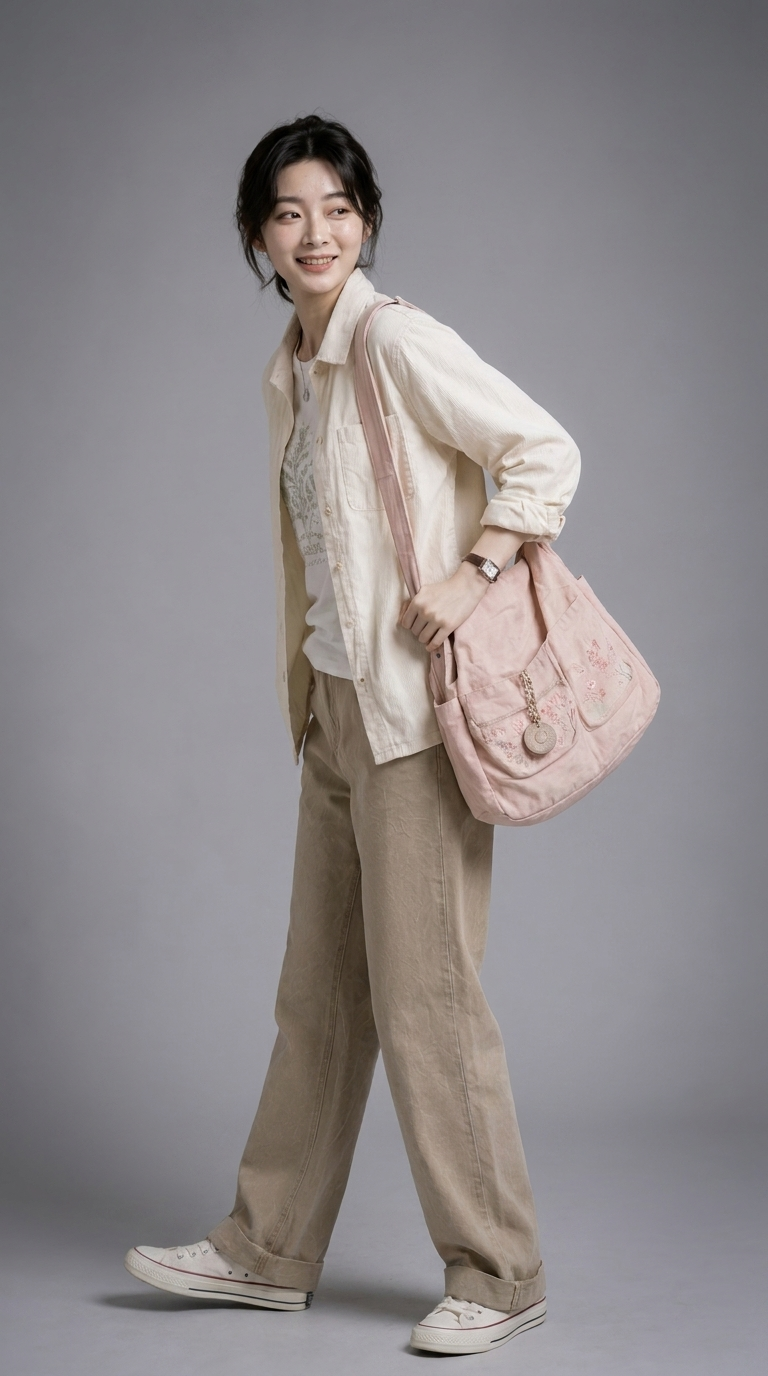
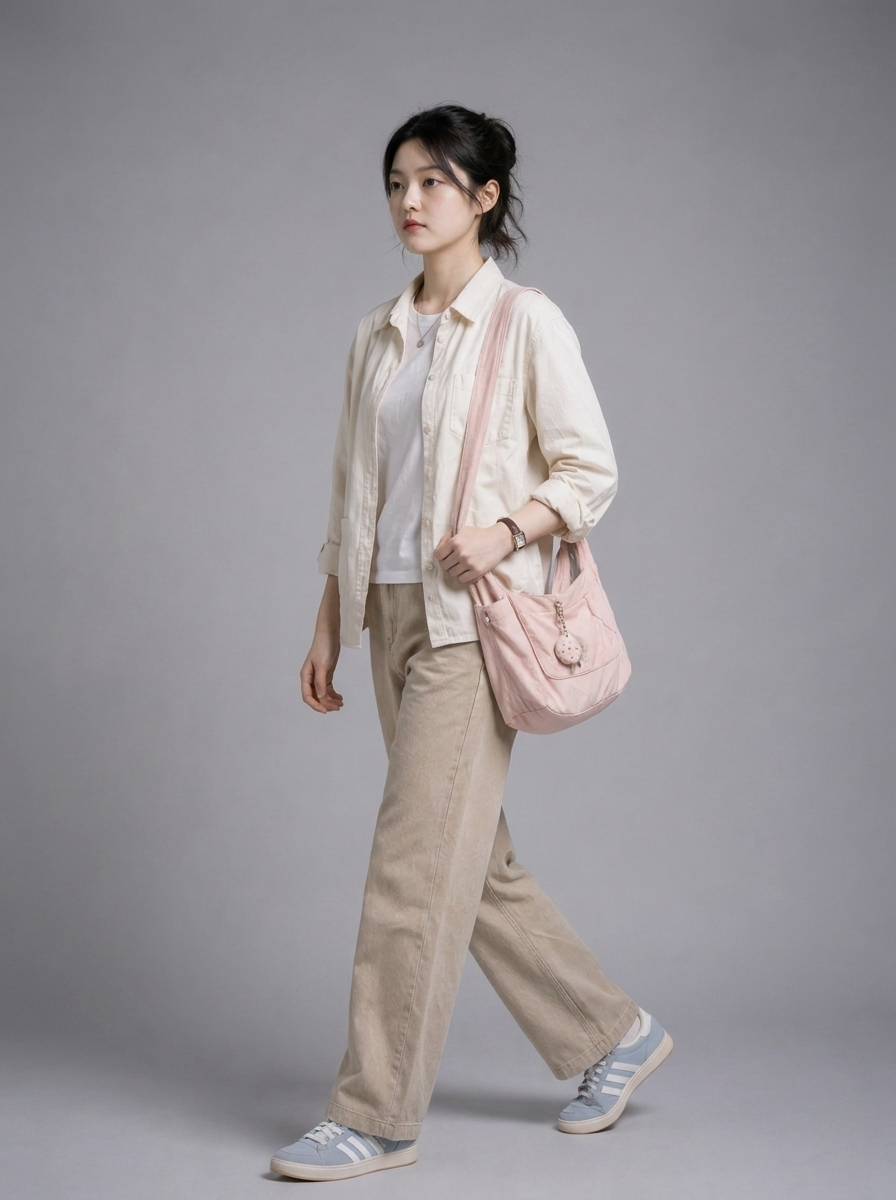
替换程雨馨全部资产：造型5+面部7+表情12+一致性4=28张（三主角全员28张完整度）

diff --git a/index.html b/index.html
@@ -124,7 +124,10 @@ body{background:#0a0a14;color:#ede4d4;font-family:"PingFang SC","Noto Serif SC",
     <a href="#sec-chenyuchen-face" data-nav="chenyuchen-face" class="nav-sub">📐 面部资产</a>
     <a href="#sec-chenyuchen-expr" data-nav="chenyuchen-expr" class="nav-sub">😶 表情资产</a>
     <a href="#sec-chenyuchen-consistency" data-nav="chenyuchen-consistency" class="nav-sub">🔗 一致性</a>
-    <a href="#sec-chengyuxin" data-nav="chengyuxin">🌸 程雨馨 · 感知者</a>
+    <a href="#sec-chengyuxin" data-nav="chengyuxin">🌸 程雨馨 · 造型</a>
+    <a href="#sec-chengyuxin-face" data-nav="chengyuxin-face" class="nav-sub">📐 面部资产</a>
+    <a href="#sec-chengyuxin-expr" data-nav="chengyuxin-expr" class="nav-sub">😶 表情资产</a>
+    <a href="#sec-chengyuxin-consistency" data-nav="chengyuxin-consistency" class="nav-sub">🔗 一致性</a>
     <div class="nav-major">核心配角</div>
     <a href="#sec-hongjie" data-nav="hongjie">🐱 虹姐 · 香堂主</a>
   </div>
@@ -504,7 +507,7 @@ body{background:#0a0a14;color:#ede4d4;font-family:"PingFang SC","Noto Serif SC",
   <div class="card-grid" id="grid-chengyuxin">
     <div class="card" onclick="openLightbox(this.querySelector('img'),'chengyuxin')">
       <img src="程雨馨_正面全身.jpg" alt="程雨馨 正面全身" loading="lazy">
-      <div class="card-info"><div class="card-name">正面全身</div><div class="card-desc">标准正面站姿 · 浅色外套+针织+简洁裤装</div></div>
+      <div class="card-info"><div class="card-name">正面全身</div><div class="card-desc">标准站姿 · 浅色外套+针织+简洁裤装</div></div>
     </div>
     <div class="card" onclick="openLightbox(this.querySelector('img'),'chengyuxin')">
       <img src="程雨馨_背面全身.jpg" alt="程雨馨 背面全身" loading="lazy">
@@ -520,7 +523,117 @@ body{background:#0a0a14;color:#ede4d4;font-family:"PingFang SC","Noto Serif SC",
     </div>
     <div class="card" onclick="openLightbox(this.querySelector('img'),'chengyuxin')">
       <img src="程雨馨_动态站姿.jpg" alt="程雨馨 动态站姿" loading="lazy">
-      <div class="card-info"><div class="card-name">动态站姿</div><div class="card-desc">调查状态 · 气味标签+样本袋+记录本</div></div>
+      <div class="card-info"><div class="card-name">动态站姿</div><div class="card-desc">自然行动 · 植物感知者的灵敏感</div></div>
+    </div>
+  </div>
+
+  <!-- 程雨馨 · 面部资产 -->
+  <div id="sec-chengyuxin-face"></div>
+  <div class="section-title"><div class="line"></div><span class="label">📐 程雨馨 · 面部资产（7张）</span><div class="line"></div></div>
+  <div class="card-grid" id="grid-chengyuxin-face">
+    <div class="card" onclick="openLightbox(this.querySelector('img'),'chengyuxin-face')">
+      <img src="程雨馨_面部_正面正视.jpg" alt="正面正视" loading="lazy">
+      <div class="card-info"><div class="card-name">正面正视</div><div class="card-desc">标准面部 · 自然清透·安静敏感</div></div>
+    </div>
+    <div class="card" onclick="openLightbox(this.querySelector('img'),'chengyuxin-face')">
+      <img src="程雨馨_面部_左侧45度.jpg" alt="左侧45度" loading="lazy">
+      <div class="card-info"><div class="card-name">左侧45°</div><div class="card-desc">面部角度参考</div></div>
+    </div>
+    <div class="card" onclick="openLightbox(this.querySelector('img'),'chengyuxin-face')">
+      <img src="程雨馨_面部_右侧45度.jpg" alt="右侧45度" loading="lazy">
+      <div class="card-info"><div class="card-name">右侧45°</div><div class="card-desc">面部角度参考</div></div>
+    </div>
+    <div class="card" onclick="openLightbox(this.querySelector('img'),'chengyuxin-face')">
+      <img src="程雨馨_面部_左侧正侧.jpg" alt="左侧正侧" loading="lazy">
+      <div class="card-info"><div class="card-name">左侧正侧</div><div class="card-desc">完整侧脸轮廓</div></div>
+    </div>
+    <div class="card" onclick="openLightbox(this.querySelector('img'),'chengyuxin-face')">
+      <img src="程雨馨_面部_右侧正侧.jpg" alt="右侧正侧" loading="lazy">
+      <div class="card-info"><div class="card-name">右侧正侧</div><div class="card-desc">完整侧脸轮廓</div></div>
+    </div>
+    <div class="card" onclick="openLightbox(this.querySelector('img'),'chengyuxin-face')">
+      <img src="程雨馨_面部_仰视角度.jpg" alt="仰视角度" loading="lazy">
+      <div class="card-info"><div class="card-name">仰视角度</div><div class="card-desc">低角度面部参考</div></div>
+    </div>
+    <div class="card" onclick="openLightbox(this.querySelector('img'),'chengyuxin-face')">
+      <img src="程雨馨_面部_俯视角度.jpg" alt="俯视角度" loading="lazy">
+      <div class="card-info"><div class="card-name">俯视角度</div><div class="card-desc">高角度面部参考</div></div>
+    </div>
+  </div>
+
+  <!-- 程雨馨 · 表情资产 -->
+  <div id="sec-chengyuxin-expr"></div>
+  <div class="section-title"><div class="line"></div><span class="label">😶 程雨馨 · 表情资产（12张）</span><div class="line"></div></div>
+  <div class="card-grid" id="grid-chengyuxin-expr">
+    <div class="card" onclick="openLightbox(this.querySelector('img'),'chengyuxin-expr')">
+      <img src="程雨馨_表情_默认状态.jpg" alt="默认状态" loading="lazy">
+      <div class="card-info"><div class="card-name">默认状态</div><div class="card-desc">基准表情 · 安静敏感的观察者</div></div>
+    </div>
+    <div class="card" onclick="openLightbox(this.querySelector('img'),'chengyuxin-expr')">
+      <img src="程雨馨_表情_轻微微笑.jpg" alt="轻微微笑" loading="lazy">
+      <div class="card-info"><div class="card-name">轻微微笑</div><div class="card-desc">发现异常植物线索的喜悦</div></div>
+    </div>
+    <div class="card" onclick="openLightbox(this.querySelector('img'),'chengyuxin-expr')">
+      <img src="程雨馨_表情_释然.jpg" alt="释然" loading="lazy">
+      <div class="card-info"><div class="card-name">释然</div><div class="card-desc">接受自己的能力后放松</div></div>
+    </div>
+    <div class="card" onclick="openLightbox(this.querySelector('img'),'chengyuxin-expr')">
+      <img src="程雨馨_表情_思考.jpg" alt="思考" loading="lazy">
+      <div class="card-info"><div class="card-name">思考</div><div class="card-desc">分析气味标签时的专注</div></div>
+    </div>
+    <div class="card" onclick="openLightbox(this.querySelector('img'),'chengyuxin-expr')">
+      <img src="程雨馨_表情_疑惑.jpg" alt="疑惑" loading="lazy">
+      <div class="card-info"><div class="card-name">疑惑</div><div class="card-desc">异常气味来源不明</div></div>
+    </div>
+    <div class="card" onclick="openLightbox(this.querySelector('img'),'chengyuxin-expr')">
+      <img src="程雨馨_表情_犹豫.jpg" alt="犹豫" loading="lazy">
+      <div class="card-info"><div class="card-name">犹豫</div><div class="card-desc">是否告诉团队自己的感知</div></div>
+    </div>
+    <div class="card" onclick="openLightbox(this.querySelector('img'),'chengyuxin-expr')">
+      <img src="程雨馨_表情_惊讶.jpg" alt="惊讶" loading="lazy">
+      <div class="card-info"><div class="card-name">惊讶</div><div class="card-desc">第一次看见渊木本体</div></div>
+    </div>
+    <div class="card" onclick="openLightbox(this.querySelector('img'),'chengyuxin-expr')">
+      <img src="程雨馨_表情_恐惧.jpg" alt="恐惧" loading="lazy">
+      <div class="card-info"><div class="card-name">恐惧</div><div class="card-desc">感知被渊木反噬的瞬间</div></div>
+    </div>
+    <div class="card" onclick="openLightbox(this.querySelector('img'),'chengyuxin-expr')">
+      <img src="程雨馨_表情_悲伤.jpg" alt="悲伤" loading="lazy">
+      <div class="card-info"><div class="card-name">悲伤</div><div class="card-desc">无法拯救黄雅悦的自责</div></div>
+    </div>
+    <div class="card" onclick="openLightbox(this.querySelector('img'),'chengyuxin-expr')">
+      <img src="程雨馨_表情_愤怒.jpg" alt="愤怒" loading="lazy">
+      <div class="card-info"><div class="card-name">愤怒</div><div class="card-desc">对成华集团隐瞒真相的愤怒</div></div>
+    </div>
+    <div class="card" onclick="openLightbox(this.querySelector('img'),'chengyuxin-expr')">
+      <img src="程雨馨_表情_压力状态.jpg" alt="压力状态" loading="lazy">
+      <div class="card-info"><div class="card-name">压力状态</div><div class="card-desc">异常嗅觉过载时的疲惫</div></div>
+    </div>
+    <div class="card" onclick="openLightbox(this.querySelector('img'),'chengyuxin-expr')">
+      <img src="程雨馨_表情_角色招牌.jpg" alt="角色招牌" loading="lazy">
+      <div class="card-info"><div class="card-name">角色招牌</div><div class="card-desc">清透自然的最具辨识度表情</div></div>
+    </div>
+  </div>
+
+  <!-- 程雨馨 · 一致性资产 -->
+  <div id="sec-chengyuxin-consistency"></div>
+  <div class="section-title"><div class="line"></div><span class="label">🔗 程雨馨 · 一致性资产（4张）</span><div class="line"></div></div>
+  <div class="card-grid" id="grid-chengyuxin-consistency">
+    <div class="card" onclick="openLightbox(this.querySelector('img'),'chengyuxin-consistency')">
+      <img src="程雨馨_一致性_剪影识别系统.jpg" alt="剪影识别系统" loading="lazy">
+      <div class="card-info"><div class="card-name">剪影识别系统</div><div class="card-desc">多角度剪影轮廓 · 轻盈体态辨识度</div></div>
+    </div>
+    <div class="card" onclick="openLightbox(this.querySelector('img'),'chengyuxin-consistency')">
+      <img src="程雨馨_一致性_服装结构与材质板.jpg" alt="服装结构与材质板" loading="lazy">
+      <div class="card-info"><div class="card-name">服装结构与材质板</div><div class="card-desc">浅色外套·针织·自然面料</div></div>
+    </div>
+    <div class="card" onclick="openLightbox(this.querySelector('img'),'chengyuxin-consistency')">
+      <img src="程雨馨_一致性_脸部_眼镜_发型细节.jpg" alt="脸部眼镜发型细节" loading="lazy">
+      <div class="card-info"><div class="card-name">脸部+发型细节</div><div class="card-desc">清透五官·自然发型·锁脸参考</div></div>
+    </div>
+    <div class="card" onclick="openLightbox(this.querySelector('img'),'chengyuxin-consistency')">
+      <img src="程雨馨_一致性_随身物资产.jpg" alt="随身物资产" loading="lazy">
+      <div class="card-info"><div class="card-name">随身物资产</div><div class="card-desc">气味标签+样本袋+记录本+美院速写簿</div></div>
     </div>
   </div>
 
@@ -546,7 +659,7 @@ body{background:#0a0a14;color:#ede4d4;font-family:"PingFang SC","Noto Serif SC",
   <!-- Footer -->
   <div class="footer">
     不思异：本草奇探 · 角色造型与视觉资产图集<br>
-    3 位主角 · 61 张造型已入库 · 萧子期28张+陈宇晨28张+程雨馨5张
+    3 位主角 · 84 张造型已入库 · 萧子期/陈宇晨/程雨馨各28张(造型5+面部7+表情12+一致性4)
   </div>
 
 </div>
@@ -651,6 +764,9 @@ var sectionMap = {
   "chenyuchen-expr":"#sec-chenyuchen-expr",
   "chenyuchen-consistency":"#sec-chenyuchen-consistency",
   "chengyuxin":"#sec-chengyuxin",
+  "chengyuxin-face":"#sec-chengyuxin-face",
+  "chengyuxin-expr":"#sec-chengyuxin-expr",
+  "chengyuxin-consistency":"#sec-chengyuxin-consistency",
   "hongjie":"#sec-hongjie"
 };
 
